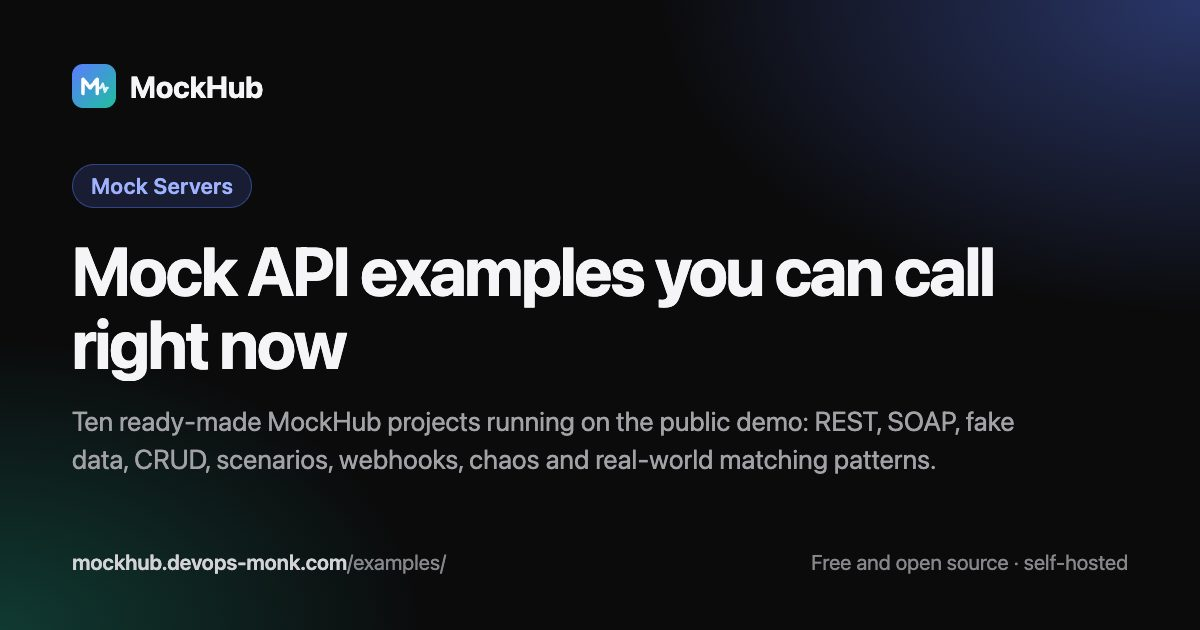
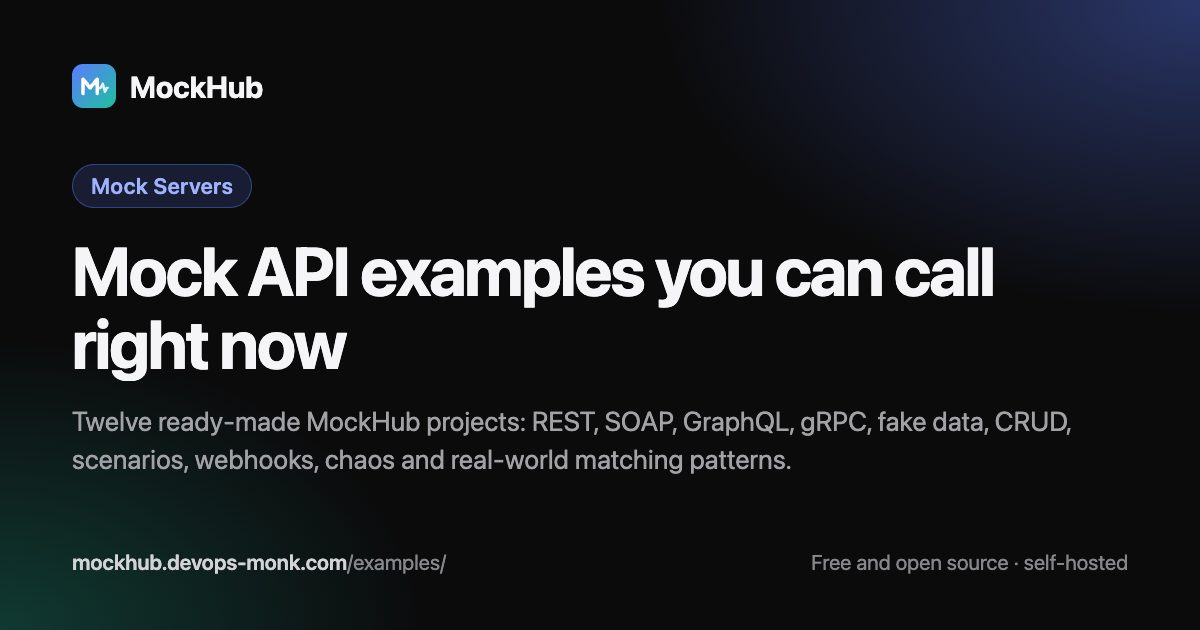
Add an Inventory gRPC example project with its descriptor set, and list GraphQL and gRPC on the site

Changed region(s): [[0.0617, 0.6333, 0.8942, 0.754]]

diff --git a/website/tutorials/index.html b/website/tutorials/index.html
@@ -103,7 +103,7 @@
               </a>
               <a class="mega-item" href="/examples/">
                 <span class="mega-icon"><svg xmlns="http://www.w3.org/2000/svg" width="18" height="18" fill="currentColor" viewBox="0 0 256 256" aria-hidden="true"><path d="M48,72h64V184H48ZM190.64,38.39a8,8,0,0,0-9.5-6.21l-46.81,10a8.07,8.07,0,0,0-6.15,9.57L139.79,107l62.46-13.42Z" opacity="0.2"></path><path d="M231.65,194.55,198.46,36.75a16,16,0,0,0-19-12.39L132.65,34.42a16.08,16.08,0,0,0-12.3,19l33.19,157.8A16,16,0,0,0,169.16,224a16.25,16.25,0,0,0,3.38-.36l46.81-10.06A16.09,16.09,0,0,0,231.65,194.55ZM136,50.15c0-.06,0-.09,0-.09l46.8-10,3.33,15.87L139.33,66Zm6.62,31.47,46.82-10.05,3.34,15.9L146,97.53Zm6.64,31.57,46.82-10.06,13.3,63.24-46.82,10.06ZM216,197.94l-46.8,10-3.33-15.87L212.67,182,216,197.85C216,197.91,216,197.94,216,197.94ZM104,32H56A16,16,0,0,0,40,48V208a16,16,0,0,0,16,16h48a16,16,0,0,0,16-16V48A16,16,0,0,0,104,32ZM56,48h48V64H56Zm0,32h48v96H56Zm48,128H56V192h48v16Z"></path></svg></span>
-                <span><strong>Ready-made examples</strong><small>Ten projects, live on the demo.</small></span>
+                <span><strong>Ready-made examples</strong><small>Twelve projects to call or install.</small></span>
               </a>
             </div>
             <div class="mega-side">
@@ -113,7 +113,7 @@
               <a href="/docs/export/"><svg xmlns="http://www.w3.org/2000/svg" width="16" height="16" fill="currentColor" viewBox="0 0 256 256" aria-hidden="true"><path d="M208,104V216H48V104Z" opacity="0.2"></path><path d="M216,112v96a16,16,0,0,1-16,16H56a16,16,0,0,1-16-16V112A16,16,0,0,1,56,96H80a8,8,0,0,1,0,16H56v96H200V112H176a8,8,0,0,1,0-16h24A16,16,0,0,1,216,112ZM93.66,69.66,120,43.31V136a8,8,0,0,0,16,0V43.31l26.34,26.35a8,8,0,0,0,11.32-11.32l-40-40a8,8,0,0,0-11.32,0l-40,40A8,8,0,0,0,93.66,69.66Z"></path></svg>Postman and Bruno export</a>
               <a class="mega-demo" href="/examples/">
                 <strong>Ready-made examples</strong>
-                <span>Ten example projects, live on the demo.</span>
+                <span>Twelve example projects to call or install.</span>
               </a>
             </div>
           </div>
@@ -350,6 +350,8 @@
               <tr><td><strong>Resilience testing — faults &amp; delays</strong></td><td>Slow and random latency, dropped connections, 429 and 503 with Retry-After, 1 call in 5 failing, a maintenance switch</td><td><a href="#tour">Tour</a>, <a href="#chaos">Delays, faults &amp; failures</a>, <a href="#stub-controls">On &amp; off</a></td></tr>
               <tr><td><strong>Bookshop — from an OpenAPI file</strong></td><td>Stubs generated from a spec, hand-written error cases, response files (a CSV and an image)</td><td><a href="#tour">Tour</a>, <a href="#openapi">OpenAPI</a>, <a href="#webhooks">Files</a></td></tr>
               <tr><td><strong>Calculator — SOAP from WSDL</strong></td><td>One stub per operation, the <span class="mono">?wsdl</span> endpoint, a fault for unknown operations, XPath matching</td><td><a href="#tour">Tour</a>, <a href="#soap">SOAP from WSDL</a></td></tr>
+              <tr><td><strong>Library — GraphQL from a schema</strong></td><td>One endpoint answers every query and mutation from the schema; fixed answers for one operation and its variables; the GraphQL console</td><td><a href="/docs/graphql/">GraphQL docs</a></td></tr>
+              <tr><td><strong>Inventory — gRPC from a descriptor set</strong></td><td>Unary, server-streaming and client-streaming methods; gRPC statuses; metadata matching; templated messages; grpcurl through server reflection</td><td><a href="/docs/grpc/">gRPC docs</a></td></tr>
             </tbody>
           </table>
         </div>

diff --git a/website/index.html b/website/index.html
@@ -108,7 +108,7 @@
               </a>
               <a class="mega-item" href="/examples/">
                 <span class="mega-icon"><svg xmlns="http://www.w3.org/2000/svg" width="18" height="18" fill="currentColor" viewBox="0 0 256 256" aria-hidden="true"><path d="M48,72h64V184H48ZM190.64,38.39a8,8,0,0,0-9.5-6.21l-46.81,10a8.07,8.07,0,0,0-6.15,9.57L139.79,107l62.46-13.42Z" opacity="0.2"></path><path d="M231.65,194.55,198.46,36.75a16,16,0,0,0-19-12.39L132.65,34.42a16.08,16.08,0,0,0-12.3,19l33.19,157.8A16,16,0,0,0,169.16,224a16.25,16.25,0,0,0,3.38-.36l46.81-10.06A16.09,16.09,0,0,0,231.65,194.55ZM136,50.15c0-.06,0-.09,0-.09l46.8-10,3.33,15.87L139.33,66Zm6.62,31.47,46.82-10.05,3.34,15.9L146,97.53Zm6.64,31.57,46.82-10.06,13.3,63.24-46.82,10.06ZM216,197.94l-46.8,10-3.33-15.87L212.67,182,216,197.85C216,197.91,216,197.94,216,197.94ZM104,32H56A16,16,0,0,0,40,48V208a16,16,0,0,0,16,16h48a16,16,0,0,0,16-16V48A16,16,0,0,0,104,32ZM56,48h48V64H56Zm0,32h48v96H56Zm48,128H56V192h48v16Z"></path></svg></span>
-                <span><strong>Ready-made examples</strong><small>Ten projects, live on the demo.</small></span>
+                <span><strong>Ready-made examples</strong><small>Twelve projects to call or install.</small></span>
               </a>
             </div>
             <div class="mega-side">
@@ -118,7 +118,7 @@
               <a href="/docs/export/"><svg xmlns="http://www.w3.org/2000/svg" width="16" height="16" fill="currentColor" viewBox="0 0 256 256" aria-hidden="true"><path d="M208,104V216H48V104Z" opacity="0.2"></path><path d="M216,112v96a16,16,0,0,1-16,16H56a16,16,0,0,1-16-16V112A16,16,0,0,1,56,96H80a8,8,0,0,1,0,16H56v96H200V112H176a8,8,0,0,1,0-16h24A16,16,0,0,1,216,112ZM93.66,69.66,120,43.31V136a8,8,0,0,0,16,0V43.31l26.34,26.35a8,8,0,0,0,11.32-11.32l-40-40a8,8,0,0,0-11.32,0l-40,40A8,8,0,0,0,93.66,69.66Z"></path></svg>Postman and Bruno export</a>
               <a class="mega-demo" href="/examples/">
                 <strong>Ready-made examples</strong>
-                <span>Ten example projects, live on the demo.</span>
+                <span>Twelve example projects to call or install.</span>
               </a>
             </div>
           </div>

diff --git a/ui/src/pages/ExamplesPage.test.tsx b/ui/src/pages/ExamplesPage.test.tsx
@@ -9,7 +9,7 @@ const installExample = vi.fn();
 vi.mock('../state/AppContext', () => ({ useApp: () => ({ canManage: true, refreshProjects }) }));
 vi.mock('../api/client', () => ({ api: { examples: () => examples(), installExample: (id: string) => installExample(id) } }));
 
-const { ExamplesPage } = await import('./ExamplesPage');
+const { ExamplesPage, tagClass } = await import('./ExamplesPage');
 
 describe('ExamplesPage', () => {
   it('lists examples and installs one as a project', async () => {
@@ -25,5 +25,26 @@ describe('ExamplesPage', () => {
     expect(installExample).toHaveBeenCalledWith('rest-basics');
     await waitFor(() => expect(refreshProjects).toHaveBeenCalled());
     expect(await screen.findByText('Installed “Petstore”')).toBeInTheDocument();
+  });
+
+  it('colours protocol tags', async () => {
+    // Given
+    examples.mockResolvedValue([{ id: 'grpc-inventory', name: 'Inventory', slug: 'g', description: 'gRPC', tags: ['gRPC', 'Streaming'] }]);
+
+    // When
+    renderWithShell(<ExamplesPage />);
+
+    // Then
+    expect(await screen.findByText('gRPC', { selector: 'span' })).toHaveClass('tag', 'grpc');
+    expect(screen.getByText('Streaming')).toHaveClass('tag');
+    expect(screen.getByText('Streaming')).not.toHaveClass('grpc');
+  });
+
+  it('maps each protocol to its tag class', () => {
+    // When / Then
+    expect(tagClass('SOAP')).toBe('tag soap');
+    expect(tagClass('GraphQL')).toBe('tag graphql');
+    expect(tagClass('gRPC')).toBe('tag grpc');
+    expect(tagClass('REST')).toBe('tag');
   });
 });

diff --git a/website/docs-src/pages/grpc.html b/website/docs-src/pages/grpc.html
@@ -1,4 +1,5 @@
 <p>MockHub answers gRPC calls from stubs. Upload a protobuf descriptor set for your services and write each answer as JSON. MockHub converts it to the protobuf message the client expects.</p>
+<p>To see it working first, install the <em>Inventory — gRPC from a descriptor set</em> example (<strong>Examples</strong> in the sidebar). It serves <code>inventory.v1.StockService</code> with a unary, a server-streaming and a client-streaming method, a templated answer, gRPC statuses and a stub that matches metadata. Try it with <code>grpcurl -plaintext -d '{"sku":"sku-7"}' localhost:8080 inventory.v1.StockService/GetItem</code>. Because a service belongs to one project, the example can be installed once per server.</p>
 
 <h3 id="grpc-descriptors">Upload a descriptor set</h3>
 <p>gRPC messages are binary, so MockHub needs your service definitions. Build a descriptor set from your <code>.proto</code> files with <code>protoc</code>:</p>

diff --git a/ui/src/pages/ExamplesPage.tsx b/ui/src/pages/ExamplesPage.tsx
@@ -41,7 +41,7 @@ export function ExampleGrid({ compact }: { compact?: boolean }) {
           <h3>{ex.name}</h3>
           <div className="btn-row">
             {ex.tags.map((t) => (
-              <span key={t} className={`tag${t === 'SOAP' ? ' soap' : ''}`}>{t}</span>
+              <span key={t} className={tagClass(t)}>{t}</span>
             ))}
           </div>
           <p>{ex.description}</p>
@@ -56,6 +56,13 @@ export function ExampleGrid({ compact }: { compact?: boolean }) {
       ))}
     </div>
   );
+}
+
+const PROTOCOL_TAGS: Record<string, string> = { SOAP: 'soap', GraphQL: 'graphql', gRPC: 'grpc' };
+
+export function tagClass(tag: string): string {
+  const protocol = PROTOCOL_TAGS[tag];
+  return protocol ? `tag ${protocol}` : 'tag';
 }
 
 export function ExamplesPage() {

diff --git a/src/test/java/io/mockhub/integration/ExamplesIntegrationTest.java b/src/test/java/io/mockhub/integration/ExamplesIntegrationTest.java
@@ -3,6 +3,11 @@ package io.mockhub.integration;
 import static org.assertj.core.api.Assertions.assertThat;
 
 import com.fasterxml.jackson.databind.JsonNode;
+import io.mockhub.support.GrpcTestClient;
+import java.io.IOException;
+import java.io.InputStream;
+import java.io.UncheckedIOException;
+import java.util.Base64;
 import java.nio.file.Path;
 import java.time.Duration;
 import java.time.Instant;
@@ -37,7 +42,7 @@ class ExamplesIntegrationTest {
 
   @Test
   void listsExamples() {
-    assertThat(api.get(API + "/examples").json()).hasSize(11);
+    assertThat(api.get(API + "/examples").json()).hasSize(12);
   }
 
   @Test
@@ -297,5 +302,56 @@ class ExamplesIntegrationTest {
     assertThat(api.postXml("/example-soap/ws/calculator", add.formatted("2")).body()).contains("<ns1:result>5</ns1:result>");
     assertThat(api.postXml("/example-soap/ws/calculator", add.formatted("-1")).body()).contains("Negative numbers");
     assertThat(api.postXml("/example-soap/ws/calculator", add.formatted("9")).body()).contains("<ns1:result>1</ns1:result>");
+  }
+
+  @Test
+  void grpcExampleAnswersOverGrpcFromItsDescriptorSet() {
+    // Given
+    ApiClient.Result installed = api.post(API + "/examples/grpc-inventory/install", "");
+    String service = "inventory.v1.StockService";
+
+    // When
+    try (GrpcTestClient client = new GrpcTestClient(server.port(), exampleDescriptor())) {
+      GrpcTestClient.Reply item = client.unary(service, "GetItem", "{\"sku\":\"sku-7\"}");
+      GrpcTestClient.Reply missing = client.unary(service, "GetItem", "{\"sku\":\"sku-404\"}");
+      GrpcTestClient.Reply blocked = client.unary(service, "GetItem", "{\"sku\":\"sku-7\"}", Map.of("x-tenant", "blocked"));
+      List<String> updates = client.serverStream(service, "WatchStock", "{\"warehouse\":\"north\"}");
+      GrpcTestClient.Reply reserved = client.clientStream(service, "Reserve", List.of("{\"sku\":\"sku-1\",\"quantity\":2}"));
+      GrpcTestClient.Reply empty = client.clientStream(service, "Reserve", List.of("{\"sku\":\"sku-1\"}"));
+
+      // Then
+      assertThat(installed.status()).as(installed.body()).isEqualTo(201);
+      assertThat(item.status()).as(item.description()).isEqualTo("OK");
+      assertThat(item.json()).contains("\"sku\": \"sku-7\"").contains("\"name\": \"Item sku-7\"").contains("IN_STOCK");
+      assertThat(missing.status()).isEqualTo("NOT_FOUND");
+      assertThat(blocked.status()).isEqualTo("PERMISSION_DENIED");
+      assertThat(updates).singleElement().asString().contains("LOW_STOCK");
+      assertThat(reserved.status()).as(reserved.description()).isEqualTo("OK");
+      assertThat(reserved.json()).contains("\"reserved\": 2");
+      assertThat(empty.status()).isEqualTo("INVALID_ARGUMENT");
+    }
+  }
+
+  @Test
+  void grpcExampleCanBeInstalledOnlyOnceBecauseAServiceBelongsToOneProject() {
+    // Given
+    api.post(API + "/examples/grpc-inventory/install", "");
+    int before = api.get(API + "/projects").json().size();
+
+    // When
+    ApiClient.Result second = api.post(API + "/examples/grpc-inventory/install", "");
+
+    // Then
+    assertThat(second.status()).isEqualTo(409);
+    assertThat(second.body()).contains("inventory.v1.StockService");
+    assertThat(api.get(API + "/projects").json().size()).isEqualTo(before);
+  }
+
+  private static byte[] exampleDescriptor() {
+    try (InputStream in = ExamplesIntegrationTest.class.getResourceAsStream("/examples/inventory.dsc.b64")) {
+      return Base64.getMimeDecoder().decode(in.readAllBytes());
+    } catch (IOException e) {
+      throw new UncheckedIOException(e);
+    }
   }
 }

diff --git a/src/main/java/io/mockhub/example/ExampleInstaller.java b/src/main/java/io/mockhub/example/ExampleInstaller.java
@@ -6,7 +6,10 @@ import io.mockhub.api.Jsons;
 import io.mockhub.data.CrudResource;
 import io.mockhub.data.CrudService;
 import io.mockhub.data.CrudStubs;
+import io.mockhub.api.ApiException;
 import io.mockhub.files.BodyFiles;
+import io.mockhub.grpc.GrpcCatalog;
+import io.mockhub.grpc.GrpcException;
 import io.mockhub.importer.ImporterRegistry;
 import io.mockhub.importer.StubImporter;
 import io.mockhub.project.Project;
@@ -15,6 +18,7 @@ import io.mockhub.stub.StubMetadata;
 import io.mockhub.stub.StubService;
 import java.nio.charset.StandardCharsets;
 import java.util.ArrayList;
+import java.util.Base64;
 import java.util.LinkedHashMap;
 import java.util.List;
 import java.util.Map;
@@ -29,18 +33,20 @@ public final class ExampleInstaller {
   private final ImporterRegistry importers;
   private final CrudService crud;
   private final BodyFiles files;
+  private final GrpcCatalog grpc;
 
   public ExampleInstaller(ExampleCatalog catalog, ProjectService projects, StubService stubs, ImporterRegistry importers,
-      CrudService crud, BodyFiles files) {
+      CrudService crud, BodyFiles files, GrpcCatalog grpc) {
     this.catalog = catalog;
     this.projects = projects;
     this.stubs = stubs;
     this.importers = importers;
     this.crud = crud;
     this.files = files;
+    this.grpc = grpc;
   }
 
-  public record Plan(List<ObjectNode> stubs, List<Seed> seeds, boolean usesFiles) {}
+  public record Plan(List<ObjectNode> stubs, List<Seed> seeds, boolean usesFiles, boolean usesDescriptors) {}
 
   public record Seed(CrudResource resource, JsonNode records) {}
 
@@ -53,6 +59,7 @@ public final class ExampleInstaller {
         .put("orgId", orgId)
         .put("teamId", teamId);
     Project project = projects.create(request);
+    addDescriptors(project, catalog.content(example).path("descriptors"));
     Plan plan = plan(exampleId, project);
     Set<String> fileNames = saveFiles(project, catalog.content(example).path("files"));
     plan.seeds().forEach(seed -> crud.seed(project.id(), seed.resource(), seed.records()));
@@ -79,7 +86,18 @@ public final class ExampleInstaller {
       planned.add(stub);
     }
     content.path("stubs").forEach(s -> planned.add(s.deepCopy()));
-    return new Plan(planned, seeds, !content.path("files").isEmpty());
+    return new Plan(planned, seeds, !content.path("files").isEmpty(), !content.path("descriptors").isEmpty());
+  }
+
+  private void addDescriptors(Project project, JsonNode declared) {
+    try {
+      for (JsonNode d : declared) {
+        grpc.add(project.id(), d.get("name").asText(), Base64.getMimeDecoder().decode(catalog.file(d.get("file").asText())));
+      }
+    } catch (GrpcException e) {
+      projects.delete(project.id());
+      throw new ApiException(409, "This example can't be installed: " + e.getMessage());
+    }
   }
 
   private Set<String> saveFiles(Project project, JsonNode declared) {

diff --git a/src/test/java/io/mockhub/example/ExampleInstallerTest.java b/src/test/java/io/mockhub/example/ExampleInstallerTest.java
@@ -7,6 +7,10 @@ import io.mockhub.data.CrudQuery;
 import io.mockhub.data.CrudResource;
 import io.mockhub.data.CrudService;
 import io.mockhub.files.BodyFiles;
+import io.mockhub.grpc.FileDescriptorStore;
+import io.mockhub.grpc.GrpcCatalog;
+import io.mockhub.api.ApiException;
+import static org.assertj.core.api.Assertions.assertThatThrownBy;
 import io.mockhub.importer.ImporterRegistry;
 import io.mockhub.importer.OpenApiImporter;
 import io.mockhub.support.InMemoryDataStore;
@@ -32,6 +36,7 @@ class ExampleInstallerTest {
   private ExampleInstaller installer;
   private CrudService crud;
   private BodyFiles files;
+  private GrpcCatalog grpc;
 
   @TempDir
   Path dataDir;
@@ -44,7 +49,8 @@ class ExampleInstallerTest {
     ref.set(projects);
     crud = new CrudService(new InMemoryDataStore());
     files = new BodyFiles(dataDir);
-    installer = new ExampleInstaller(ExampleCatalog.fromClasspath(), projects, stubs, new ImporterRegistry(List.of(new WsdlStubImporter(), new OpenApiImporter())), crud, files);
+    grpc = new GrpcCatalog(new FileDescriptorStore(dataDir), id -> id);
+    installer = new ExampleInstaller(ExampleCatalog.fromClasspath(), projects, stubs, new ImporterRegistry(List.of(new WsdlStubImporter(), new OpenApiImporter())), crud, files, grpc);
   }
 
   @Test
@@ -98,5 +104,28 @@ class ExampleInstallerTest {
     assertThat(files.list(project.id())).extracting(BodyFiles.Info::name).containsExactly("cover.svg", "price-list.csv");
     assertThat(gateway.findAll()).filteredOn(s -> "Price list as a CSV file".equals(s.getName())).singleElement()
         .satisfies(s -> assertThat(s.getResponse().getBodyFileName()).isEqualTo("projects/" + project.id() + "/price-list.csv"));
+  }
+
+  @Test
+  void installsTheDescriptorSetsOfAGrpcExample() {
+    // When
+    Project project = installer.install("grpc-inventory", "org1", "team1");
+
+    // Then
+    assertThat(grpc.setsOf(project.id())).singleElement().satisfies(set -> assertThat(set.name()).isEqualTo("inventory.dsc"));
+    assertThat(grpc.ownerOf("inventory.v1.StockService")).contains(project.id());
+    assertThat(gateway.findAll()).hasSize(6).allSatisfy(s -> assertThat(s.getRequest().getUrlPath()).startsWith("/inventory.v1.StockService/"));
+  }
+
+  @Test
+  void aSecondGrpcExampleIsRefusedWithoutLeavingAProjectBehind() {
+    // Given
+    installer.install("grpc-inventory", "org1", "team1");
+
+    // When / Then
+    assertThatThrownBy(() -> installer.install("grpc-inventory", "org1", "team1"))
+        .isInstanceOf(ApiException.class)
+        .hasMessageContaining("already served by");
+    assertThat(projects.findAll()).hasSize(1);
   }
 }

diff --git a/src/main/java/io/mockhub/ext/MockHubExtensionFactory.java b/src/main/java/io/mockhub/ext/MockHubExtensionFactory.java
@@ -307,7 +307,7 @@ public final class MockHubExtensionFactory implements ExtensionFactory {
     UserViews userViews = new UserViews(orgs, teams);
     TeamChoice teamChoice = new TeamChoice(orgs, teams);
     ExampleCatalog examples = ExampleCatalog.fromClasspath();
-    ExampleInstaller exampleInstaller = new ExampleInstaller(examples, projects, stubs, importers, crud, bodyFiles);
+    ExampleInstaller exampleInstaller = new ExampleInstaller(examples, projects, stubs, importers, crud, bodyFiles, grpc);
     AiSettingsStore aiSettings = new AiSettingsStore(dataDir, config.aiApiKey);
     AiProviders aiProviders = AiProviders.defaults();
     ChatCompletions chat = new ChatCompletions(new JdkLlmTransport(), aiProviders, config.publicUrl);

diff --git a/src/main/java/io/mockhub/publictools/InstantExamples.java b/src/main/java/io/mockhub/publictools/InstantExamples.java
@@ -41,7 +41,7 @@ public final class InstantExamples {
     for (Example example : catalog.all()) {
       try {
         ExampleInstaller.Plan plan = installer.plan(example.id(), PREVIEW);
-        if (plan.usesFiles() || plan.stubs().isEmpty() || plan.stubs().size() > InstantMocks.MAX_STUBS) continue;
+        if (plan.usesFiles() || plan.usesDescriptors() || plan.stubs().isEmpty() || plan.stubs().size() > InstantMocks.MAX_STUBS) continue;
         if (plan.stubs().stream().allMatch(InstantExamples::runs)) {
           out.add(new Available(example.id(), example.name(), example.description(), plan.stubs().size()));
         }

diff --git a/src/test/java/io/mockhub/example/ExampleCatalogTest.java b/src/test/java/io/mockhub/example/ExampleCatalogTest.java
@@ -16,7 +16,7 @@ class ExampleCatalogTest {
   @Test
   void listsTheBundledExamples() {
     assertThat(catalog.all()).extracting(Example::id)
-        .containsExactly("rest-basics", "fake-data", "templating", "patterns", "crud", "stateful-cart", "webhooks", "chaos", "bookshop", "soap-calculator", "graphql-library");
+        .containsExactly("rest-basics", "fake-data", "templating", "patterns", "crud", "stateful-cart", "webhooks", "chaos", "bookshop", "soap-calculator", "graphql-library", "grpc-inventory");
   }
 
   @Test

diff --git a/docs/PLAN_Features.md b/docs/PLAN_Features.md
@@ -677,7 +677,7 @@ Checklist:
 - [x] gRPC (`wiremock-grpc-extension-jetty12` 0.11.0 behind a MockHub server factory; projects upload protobuf descriptor sets (`protoc --include_imports --descriptor_set_out`), well-known types resolved without imports, 4 MB and 20 per project, a service belongs to one project and clashing services, messages or files are refused; descriptors load without a restart, travel in backups and go with the project; stubs keep the `/package.Service/Method` path unprefixed, match the request message as JSON and metadata as headers, answer with protobuf JSON or a gRPC status and reason, support templating; unary, server-streaming (one message) and client-streaming (first matching message); unmatched calls get UNIMPLEMENTED; server reflection for grpcurl; calls recorded in the owning project's history; gRPC service type, method pickers, starter stubs, grpcurl command)
 - [x] SOAP auto-detect (`SoapMessage` finds version, operation, namespace and SOAPAction with a StAX parser that refuses DTDs; `soap` import of pasted sample requests makes a stub per operation plus a `mockhub-soap` endpoint at priority 10 that answers any operation with `<Operation>Response` or a fault; create stub from a logged SOAP request keeps version, action and a response envelope; "Fill operation from example" in the editor)
 - [x] Mutual TLS (`MOCKHUB_HTTPS_PORT` turns on WireMock's HTTPS connector; admins paste a server certificate chain and key (PKCS#8 or PKCS#1 RSA, key checked against the certificate, stored sealed with the secret key) and trusted client CAs on the Server page, applied with a Jetty SSL reload and kept after restarts; client certificates are requested (want, not need) so untrusted ones count as anonymous; a servlet filter strips forged `X-MockHub-Client-Cert-*` headers and sets subject, issuer and SHA-256 from the TLS session, also for gRPC metadata; per-project runtime `requireClientCert` answers 403 / PERMISSION_DENIED; the HTTPS port can't move at runtime, so it stays an environment setting)
-- [ ] Tests, docs, examples
+- [x] Tests, docs, examples (Inventory gRPC example with unary, server-streaming and client-streaming methods, statuses, metadata matching and templating; example descriptor sets installed with the project and refused with 409 when the service is already served; examples page shows grpcurl for gRPC; the WireMock comparison now lists GraphQL and gRPC)
 
 ### Phase F11 — Routing extras
 
